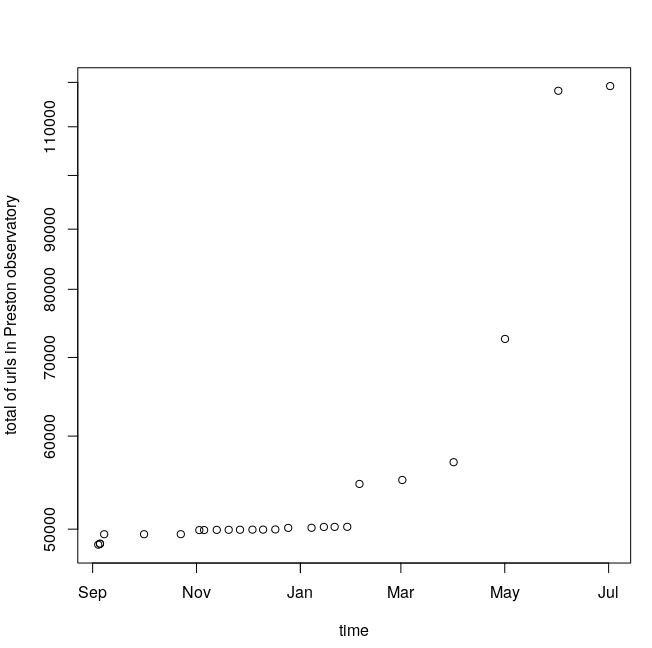
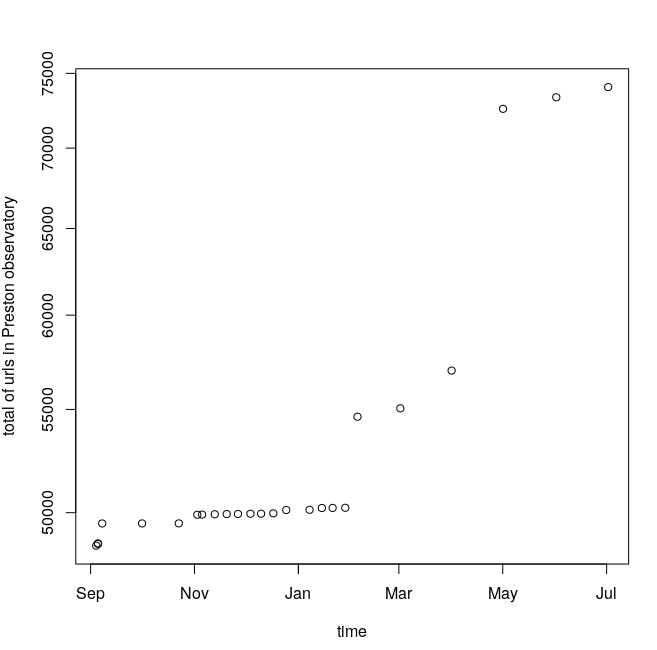
update graph after removing artifact due to #seeAlso introduction

diff --git a/analysis.md b/analysis.md
@@ -358,7 +358,7 @@ To further investigate link rot and content drift in the GBIF, iDigBio and BioCA
 
 ![20190701-url-count-time-relative.png](./20190701-url-count-time-relative.png)
 
-Note that in period Sept 2018 - Feb 2019 relatively few urls were added, confirming the known bug in Preston up to version v0.0.9 (see https://github.com/bio-guoda/preston/releases/tag/0.0.9). The bug prevented new urls from being tracked. In period Feb- Jul 2019, the number of tracked urls roughly doubled, with most of the urls being added after May 2019.
+Note that in period Sept 2018 - Feb 2019 relatively few urls were added, confirming the known bug in Preston up to version v0.0.9 (see https://github.com/bio-guoda/preston/releases/tag/0.0.9). The bug prevented new urls from being tracked. In period Feb- Jul 2019, the number of tracked urls increased to slighly less than 75k, with over 10k urls added in early May. More analysis is needed to understand the source of the newly added urls. 
 
 In period with flat tracked url growth, the volume of new data produced by the networks was in range 10-20 GB, suggesting that the growth of data volume can be, in large part, attributed to the drift of existing datasets, rather than by the addition of new datasets. 
 
